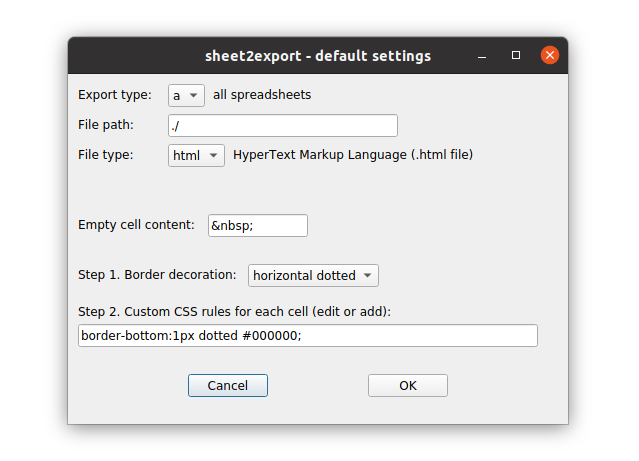
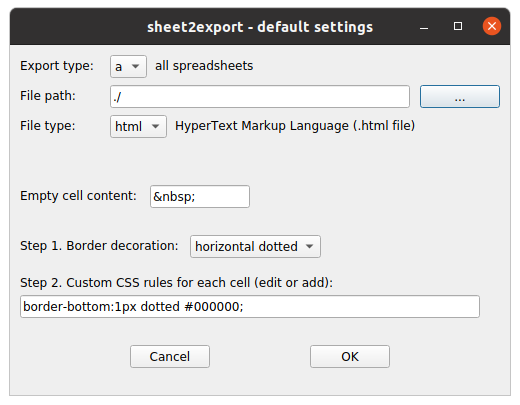
dir dialog window

diff --git a/sheet2export.py b/sheet2export.py
@@ -2,7 +2,7 @@
 
 # FreeCAD macro for spreadsheet export
 # Author: Darek L (aka dprojects)
-# Version: 2022.01.19
+# Version: 2022.03.07
 # Latest version: https://github.com/dprojects/sheet2export
 
 import FreeCAD, Draft, Spreadsheet
@@ -166,8 +166,13 @@ def showQtMain():
 			# text input
 			self.fPathTi = QtGui.QLineEdit(self)
 			self.fPathTi.setText(str(sFilePath))
-			self.fPathTi.setFixedWidth(230)
+			self.fPathTi.setFixedWidth(300)
 			self.fPathTi.move(100, 40)
+
+			# button
+			self.fPathB = QtGui.QPushButton("...", self)
+			self.fPathB.clicked.connect(self.loadCustomDir)
+			self.fPathB.move(410, 40)
 
 			# ############################################################################
 			# file type
@@ -272,6 +277,10 @@ def showQtMain():
 		# actions
 		# ############################################################################
 
+		def loadCustomDir(self):
+			sFilePath = str(QtGui.QFileDialog.getExistingDirectory())
+			self.fPathTi.setText(sFilePath)
+		
 		def setFileType(self, selectedText):
 			global sFileType
 
@@ -347,7 +356,7 @@ def showQtMain():
 				self.customCSSti.setText(str(sCustomCSS))
 			if selectedText == "3d effect":
 				sCustomCSS = "border-bottom:5px solid #D1D1D1;"
-				sCustomCSS += "border-right:5px solid #D1D1D1;"
+				sCustomCSS += "border-right:1px solid #D1D1D1;"
 				sCustomCSS += "padding:5px 10px;"
 				self.customCSSti.setText(str(sCustomCSS))
 
